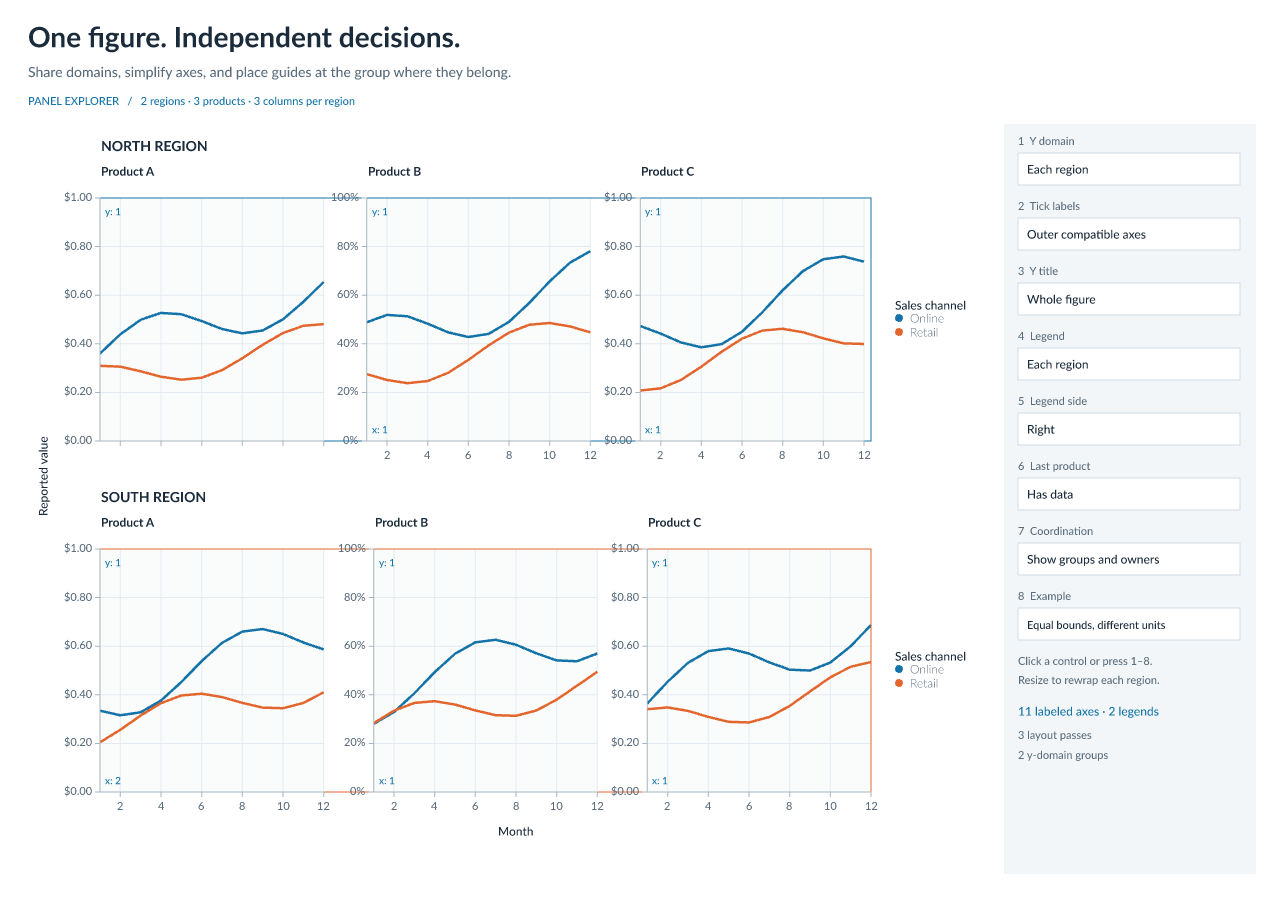
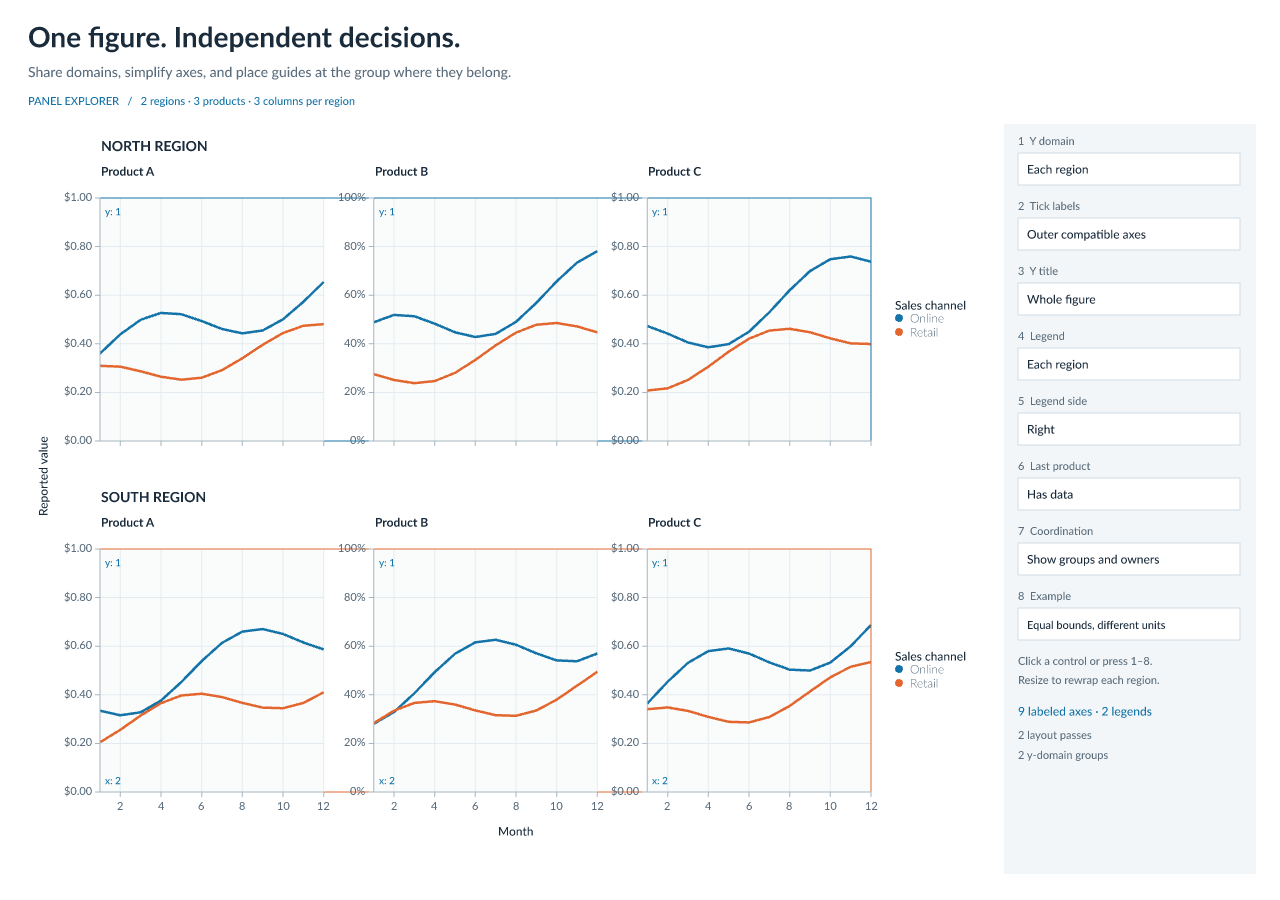
fix(examples): preserve panel alignment when hiding axis labels

diff --git a/examples/winit-panels/src/scene.rs b/examples/winit-panels/src/scene.rs
@@ -423,11 +423,14 @@ fn measure(
                 .insert(instance.id().clone(), shared_content(instance, state)?);
         }
     }
-    // Equal top clearance aligns product headers even when only one y axis has labels.
+    // Preserve endpoint clearance when labels disappear so shared plot tracks
+    // retain the same gaps and remain eligible for outer-label suppression.
     let top = result.axes.values().map(|e| e.top).fold(0.0, f32::max);
+    let right = result.axes.values().map(|e| e.right).fold(0.0, f32::max);
     let left = result.axes.values().map(|e| e.left).fold(0.0, f32::max);
     for (panel, edges) in &mut result.axes {
         edges.top = top;
+        edges.right = right;
         if label_visible(plan, "y-labels", panel) {
             edges.left = left;
         }
